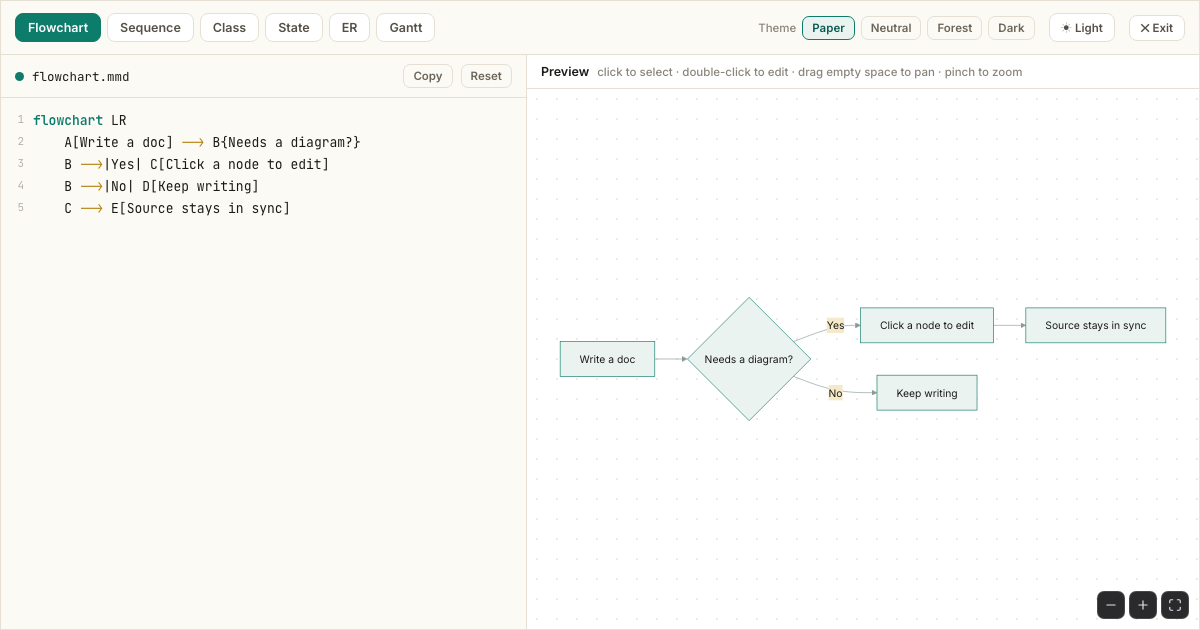
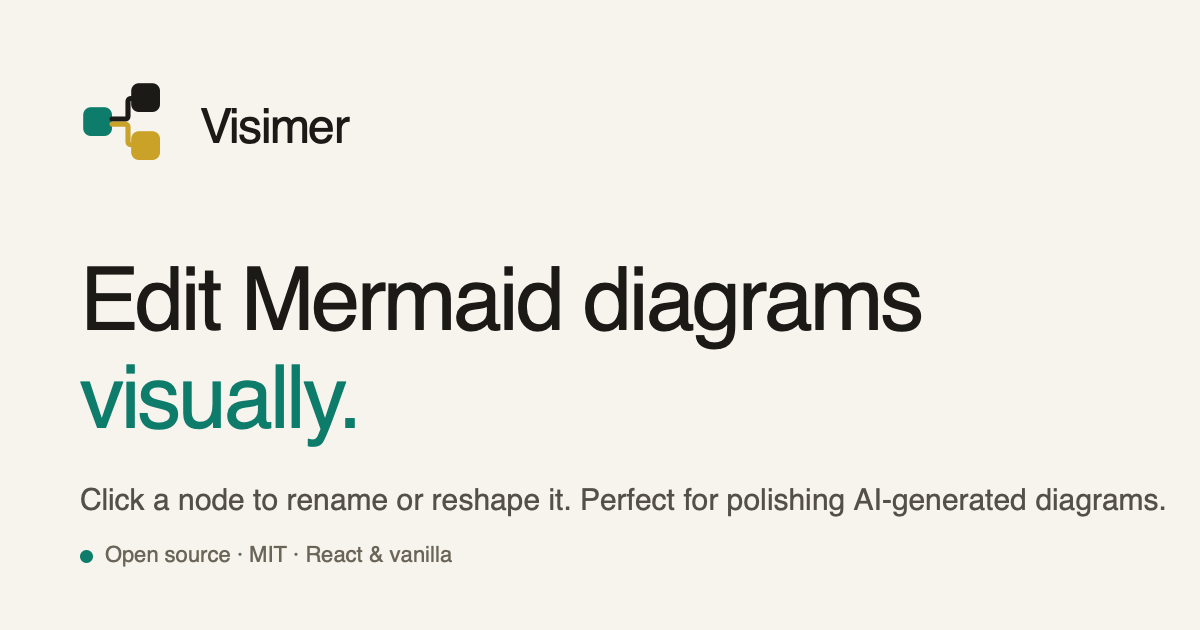
chore(visimer/site): tighten hero copy + surface Open Knowledge (#2852)
Hero swings from 'by hand' to 'visually' (less tedious, still WYSIWYG-forward). Sub-headline trims to two lines and reframes toward the AI-diagram polish use case. Adds a 'Try with Open Knowledge' CTA in the hero row and a matching README section pointing at openknowledge.ai. OG image + title/description track the copy.

GitOrigin-RevId: d8e7c98a1d4e762eb4a0bc1784ff18c5f8fc4492

diff --git a/apps/site/src/App.tsx b/apps/site/src/App.tsx
@@ -529,7 +529,7 @@ export default function App() {
               textWrap: 'balance',
             }}
           >
-            Edit Mermaid diagrams <em style={{ fontStyle: 'normal', color: '#0E7C6B' }}>by hand.</em>
+            Edit Mermaid diagrams <em style={{ fontStyle: 'normal', color: '#0E7C6B' }}>visually.</em>
           </h1>
           <p
             style={{
@@ -541,8 +541,8 @@ export default function App() {
               textWrap: 'pretty',
             }}
           >
-            A WYSIWYG editor for Mermaid. Click a node to rename or reshape it. The source rewrites itself. Perfect
-            for fixing up AI-generated diagrams the visual way.
+            A WYSIWYG editor for Mermaid diagrams. Click a node to rename or reshape it. Perfect for polishing
+            AI-generated diagrams.
           </p>
           <div style={{ display: 'flex', gap: 12, justifyContent: 'center', flexWrap: 'wrap', marginTop: 30 }}>
             <a
@@ -574,12 +574,28 @@ export default function App() {
               Open the playground
             </a>
             <a
-              href="#install"
+              href="https://openknowledge.ai"
+              target="_blank"
+              rel="noreferrer"
               style={{
                 background: '#FCFAF5',
                 border: '1px solid #E6E0D4',
                 color: '#1C1A17',
                 padding: '13px 22px',
+                borderRadius: 11,
+                fontWeight: 600,
+                fontSize: 15,
+              }}
+            >
+              Try with Open Knowledge ↗
+            </a>
+            <a
+              href="#install"
+              style={{
+                background: 'transparent',
+                border: '1px solid transparent',
+                color: '#544F47',
+                padding: '13px 12px',
                 borderRadius: 11,
                 fontWeight: 600,
                 fontSize: 15,

diff --git a/apps/site/index.html b/apps/site/index.html
@@ -6,10 +6,10 @@
     <meta name="theme-color" content="#0E7C6B" />
     <meta name="color-scheme" content="light" />
 
-    <title>Visimer · Edit Mermaid diagrams by hand</title>
+    <title>Visimer · Edit Mermaid diagrams visually</title>
     <meta
       name="description"
-      content="Visimer is an open-source WYSIWYG editor for Mermaid diagrams. Click a node to rename or reshape it and the source rewrites itself. React and vanilla bindings, MIT licensed."
+      content="Visimer is an open-source WYSIWYG editor for Mermaid diagrams. Click a node to rename or reshape it. Perfect for polishing AI-generated diagrams."
     />
     <meta
       name="keywords"
@@ -24,27 +24,27 @@
     <link rel="apple-touch-icon" href="/favicon.svg" />
 
     <meta property="og:site_name" content="Visimer" />
-    <meta property="og:title" content="Visimer · Edit Mermaid diagrams by hand" />
+    <meta property="og:title" content="Visimer · Edit Mermaid diagrams visually" />
     <meta
       property="og:description"
-      content="An open-source WYSIWYG editor for Mermaid. Click a node to rename or reshape it and the source rewrites itself."
+      content="An open-source WYSIWYG editor for Mermaid diagrams. Click a node to rename or reshape it."
     />
     <meta property="og:type" content="website" />
     <meta property="og:url" content="https://visimer.com/" />
     <meta property="og:image" content="https://visimer.com/og-image.png" />
     <meta property="og:image:width" content="1200" />
     <meta property="og:image:height" content="630" />
-    <meta property="og:image:alt" content="Visimer: edit Mermaid diagrams by hand." />
+    <meta property="og:image:alt" content="Visimer: edit Mermaid diagrams visually." />
     <meta property="og:locale" content="en_US" />
 
     <meta name="twitter:card" content="summary_large_image" />
-    <meta name="twitter:title" content="Visimer · Edit Mermaid diagrams by hand" />
+    <meta name="twitter:title" content="Visimer · Edit Mermaid diagrams visually" />
     <meta
       name="twitter:description"
-      content="An open-source WYSIWYG editor for Mermaid. Click a node to rename or reshape it and the source rewrites itself."
+      content="An open-source WYSIWYG editor for Mermaid diagrams. Click a node to rename or reshape it."
     />
     <meta name="twitter:image" content="https://visimer.com/og-image.png" />
-    <meta name="twitter:image:alt" content="Visimer: edit Mermaid diagrams by hand." />
+    <meta name="twitter:image:alt" content="Visimer: edit Mermaid diagrams visually." />
 
     <link rel="preconnect" href="https://fonts.googleapis.com" />
     <link rel="preconnect" href="https://fonts.gstatic.com" crossorigin />

diff --git a/README.md b/README.md
@@ -51,6 +51,10 @@ Try everything locally:
 pnpm install && pnpm dev   # playground at http://localhost:5173
 ```
 
+## Try with Open Knowledge
+
+Every `.mmd` and Markdown editor in [Open Knowledge](https://openknowledge.ai) ships visimer as its diagram surface. Open a project and you get the same click-a-node-to-edit canvas over your own docs, wired up with realtime collaboration, git-backed history, and shareable links. The fastest way to try visimer on real diagrams is [openknowledge.ai](https://openknowledge.ai).
+
 ## What you can do
 
 - **Edit text in place**: double-click any label and type right on the diagram; nodes grow as you type